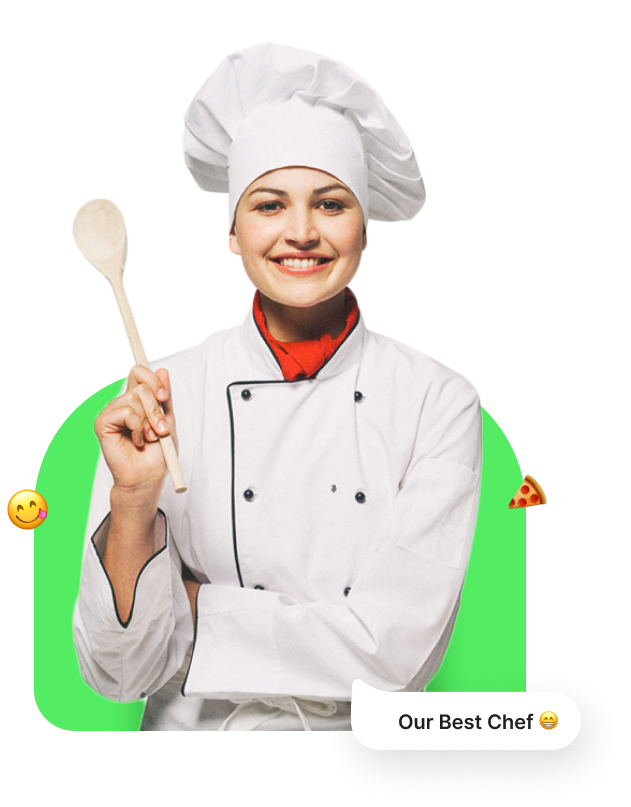
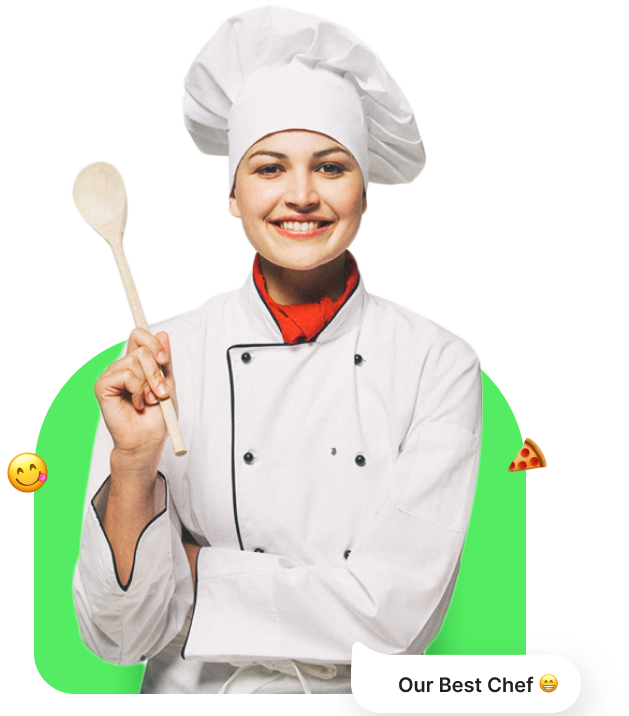
Still updating

diff --git a/index.html b/index.html
@@ -43,8 +43,12 @@
       </nav>
 
       <div class="header-items">
-        <a href="#"><i class="fa-solid fa-magnifying-glass"></i></a>
-        <a href="#"><i class="fa-solid fa-bag-shopping"></i></a>
+        <a href="#"
+          ><i class="fa-solid fa-magnifying-glass" style="color: black"></i
+        ></a>
+        <a href="#"
+          ><i class="fa-solid fa-bag-shopping" style="color: black"></i
+        ></a>
         <a href="#">
           <button class="cta-btn">
             <i class="fa-solid fa-phone"></i> <span>Contact</span>
@@ -184,37 +188,35 @@
 
       <!-- SECTION TESTIMONIALS -->
       <section class="section-testimonials">
-        <div>
+        <div class="testimonial-image">
           <img src="./img/best-chef.png" alt="" class="best-chef" />
         </div>
-        <div>
-          <div class="testimonial-content">
-            <p class="section-title">testimonials</p>
-            <h3 class="section-subtitle">
-              What our customer's <br />
-              say about us
-            </h3>
-            <p class="paragraph">
-              "I had pleasure of dining at Foodi on my way to work, and I'm
-              still raving about the experience! The attention to details in
-              presentation and servive was impeccable."
-            </p>
-            <div class="review-info">
-              <div class="customers">
-                <img src="./img/customer-1.png" alt="" />
-                <img src="./img/customer-2.png" alt="" class="customer-2" />
-                <img
-                  src="./img/customer-3.png"
-                  alt=""
-                  width="92"
-                  height="92"
-                  class="customer-3"
-                />
-              </div>
-              <div>
-                <h3>Customer's feedback</h3>
-                <span>⭐ <strong>4.9</strong> (18.9k reviews)</span>
-              </div>
+        <div class="testimonial-content">
+          <p class="section-title">testimonials</p>
+          <h3 class="section-subtitle">
+            What our customer's <br />
+            say about us
+          </h3>
+          <p class="paragraph">
+            "I had pleasure of dining at Foodi on my way to work, and I'm still
+            raving about the experience! The attention to details in
+            presentation and servive was impeccable."
+          </p>
+          <div class="review-info">
+            <div class="customers">
+              <img src="./img/customer-1.png" alt="" />
+              <img src="./img/customer-2.png" alt="" class="customer-2" />
+              <img
+                src="./img/customer-3.png"
+                alt=""
+                width="92"
+                height="92"
+                class="customer-3"
+              />
+            </div>
+            <div>
+              <h3>Customer's feedback</h3>
+              <span>⭐ <strong>4.9</strong> (18.9k reviews)</span>
             </div>
           </div>
         </div>
@@ -230,7 +232,7 @@
             offer exceptional services, blending culinary artistry with warm
             hospitality.
           </p>
-          <button>Explore</button>
+          <button class="service-cta">Explore</button>
         </div>
         <div class="services">
           <div class="service">

diff --git a/style.css b/style.css
@@ -45,6 +45,7 @@ nav ul li a {
   color: black;
   padding: 2rem;
   border-radius: 5px;
+  font-weight: bold;
 }
 
 .fa-chevron-down {
@@ -59,12 +60,17 @@ nav ul li a {
   justify-content: center;
 }
 
+.header-items div {
+  color: black;
+}
+
 .cta-btn {
   background-color: hsl(126, 80%, 63%);
   padding: 1rem 2rem;
   border: none;
   border-radius: 2rem;
   text-decoration: none;
+  color: white;
 }
 
 .cta-btn span {
@@ -265,25 +271,36 @@ nav ul li a {
   display: grid;
   grid-template-columns: 1fr 1fr;
   padding-bottom: 20rem;
+  gap: 2rem;
+}
+
+.testimonial-image {
+  display: flex;
+  align-items: center;
+  justify-content: center;
+}
+
+.best-chef {
+  width: 69%;
 }
 
 .paragraph {
   font-size: 2.6rem;
   font-weight: 500;
-  line-height: 37px;
+  line-height: 3.7rem;
   color: #555555;
   padding: 3rem 0;
   padding-bottom: 5rem;
-}
-
-.best-chef {
-  width: 100%;
 }
 
 .review-info {
   display: flex;
   gap: 2rem;
   align-items: center;
+}
+
+.customers img {
+  border-radius: 50%;
 }
 
 .customer-2 {
@@ -321,6 +338,16 @@ nav ul li a {
   justify-self: center;
 }
 
+.service-cta {
+  outline: none;
+  background-color: hsl(126, 80%, 63%);
+  font-size: 2.6rem;
+  color: white;
+  padding: 1.5rem 3rem;
+  border-radius: 4rem;
+  border: none;
+  cursor: pointer;
+}
 .service-icon {
   font-size: 6.4rem;
   color: hsl(126, 80%, 63%);
@@ -524,7 +551,7 @@ footer p {
     left: 0;
   }
 
-  /* SECTION SERVICE     */
+  /* SECTION SERVICE */
   .section-service {
     grid-template-columns: 1fr;
     padding-bottom: 10rem;
@@ -554,7 +581,7 @@ footer p {
   /* SECTION FOOTER */
   footer {
     flex-direction: column;
-    align-items: center;
+    align-items: flex-start;
     padding-bottom: 2rem;
   }
 
